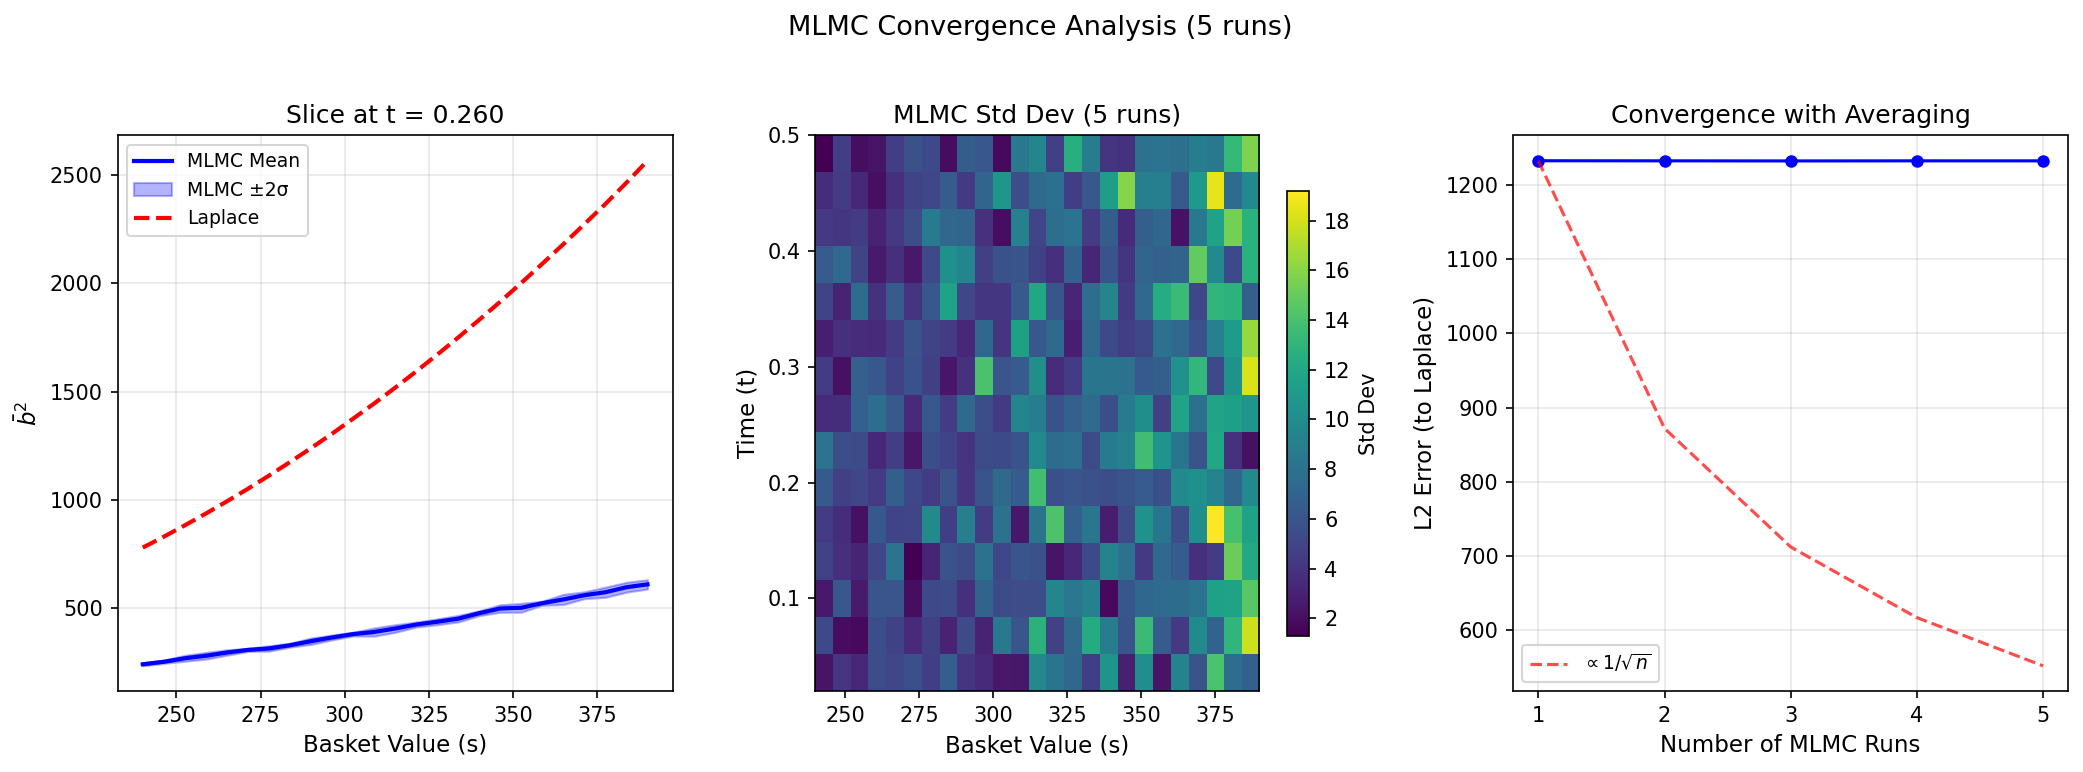
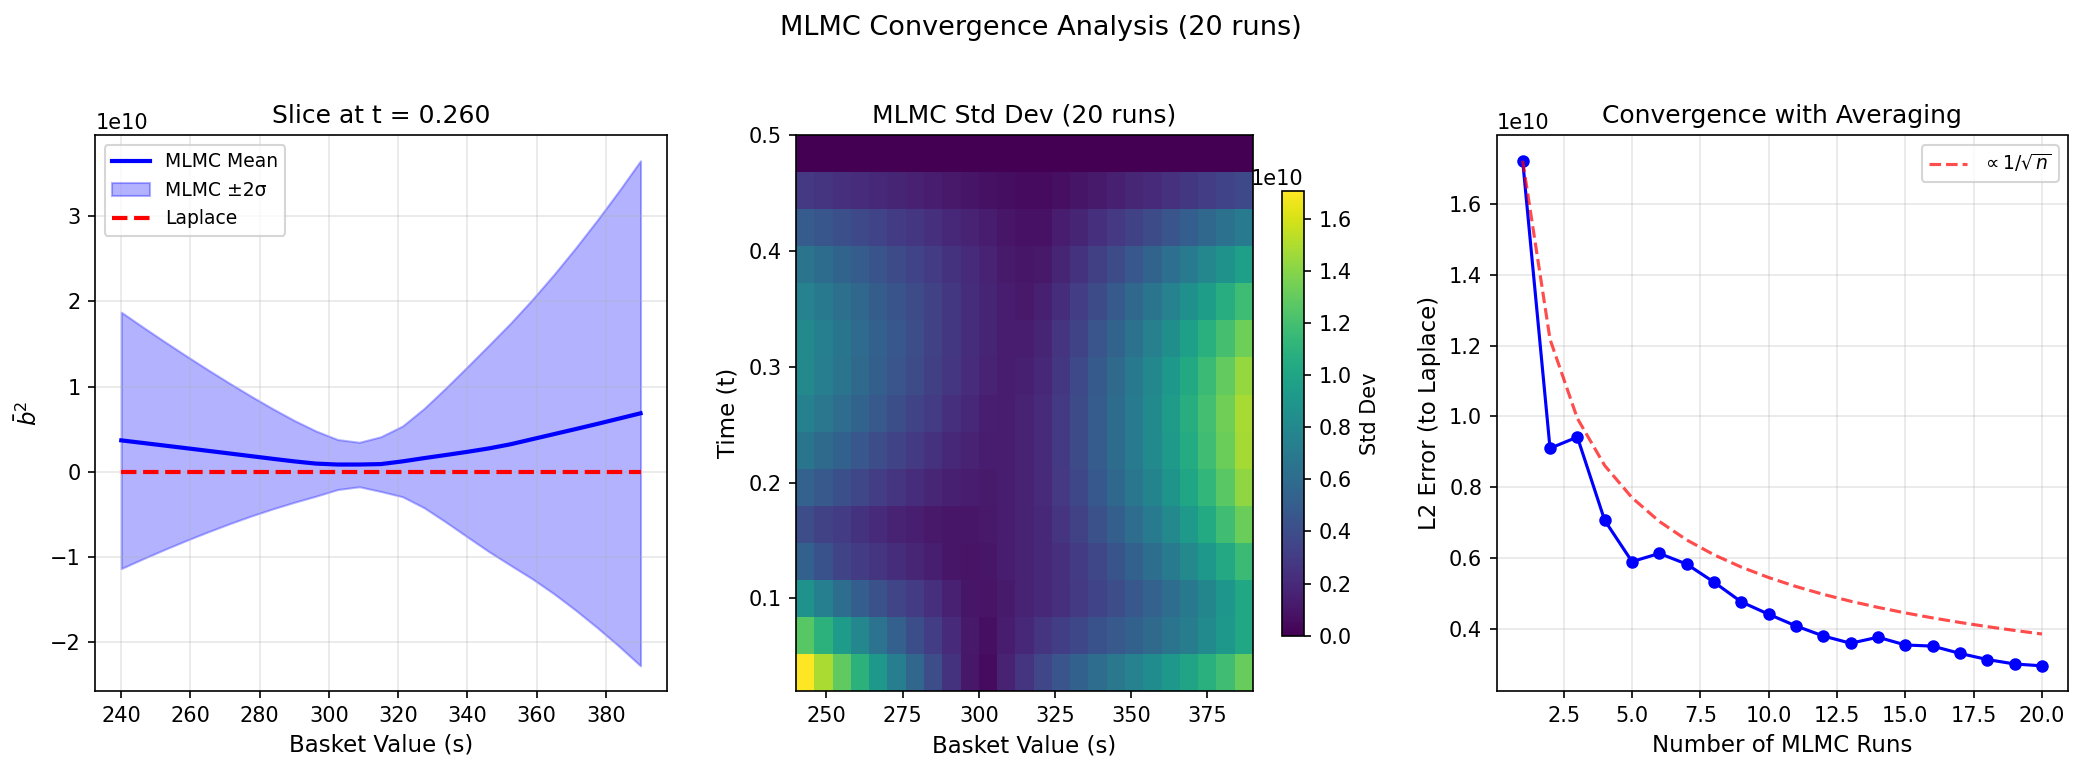
Updated Results

diff --git a/Comparison_Between_Methods/results/tables/exp5_parameter_sensitivity.md b/Comparison_Between_Methods/results/tables/exp5_parameter_sensitivity.md
@@ -4,63 +4,63 @@
 
 | Value | L2 Error | L∞ Error | MLMC Time (s) | Laplace Time (s) |
 |-------|----------|----------|---------------|------------------|
-| 0.05 | 1.9625 | 2.8420 | 0.00 | 0.38 |
-| 0.10 | 1.8542 | 2.6904 | 0.00 | 0.36 |
-| 0.15 | 1.6863 | 2.4545 | 0.00 | 0.35 |
-| 0.20 | 1.4746 | 2.1577 | 0.00 | 0.35 |
-| 0.25 | 1.2358 | 1.8235 | 0.00 | 0.36 |
-| 0.30 | 0.9853 | 1.4726 | 0.00 | 0.36 |
-| 0.40 | 0.4949 | 0.7852 | 0.00 | 0.36 |
-| 0.50 | 0.0660 | 0.1776 | 0.00 | 0.36 |
+| 0.05 | 2.0000 | 7.0671 | 0.39 | 0.42 |
+| 0.10 | 2.0000 | 5.3991 | 0.39 | 0.46 |
+| 0.15 | 2.0000 | 6.8711 | 0.41 | 0.37 |
+| 0.20 | 2.0000 | 5.6358 | 0.37 | 0.36 |
+| 0.25 | 2.0000 | 6.0405 | 0.38 | 0.38 |
+| 0.30 | 2.0000 | 7.4196 | 0.38 | 0.37 |
+| 0.40 | 2.0000 | 5.9121 | 0.36 | 0.35 |
+| 0.50 | 2.0000 | 5.9674 | 0.37 | 0.39 |
 
 ## Correlation ($\rho$)
 
 | Value | L2 Error | L∞ Error | MLMC Time (s) | Laplace Time (s) |
 |-------|----------|----------|---------------|------------------|
-| -0.50 | 1.5361 | 2.8404 | 0.00 | 0.46 |
-| -0.25 | 1.5172 | 2.4104 | 0.00 | 0.42 |
-| 0.00 | 1.5190 | 2.3049 | 0.00 | 0.40 |
-| 0.25 | 1.5232 | 2.2738 | 0.00 | 0.40 |
-| 0.50 | 1.5270 | 2.2592 | 0.00 | 0.39 |
-| 0.70 | 1.5296 | 2.2565 | 0.00 | 0.38 |
-| 0.80 | 1.5308 | 2.2553 | 0.00 | 0.39 |
-| 0.90 | 1.5319 | 2.2545 | 0.00 | 0.43 |
+| -0.50 | 2.0000 | 4.7762 | 0.39 | 0.50 |
+| -0.25 | 2.0000 | 4.7550 | 0.37 | 0.45 |
+| 0.00 | 2.0000 | 6.6764 | 0.40 | 0.43 |
+| 0.25 | 2.0000 | 6.3767 | 0.39 | 0.43 |
+| 0.50 | 2.0000 | 9.7240 | 0.37 | 0.41 |
+| 0.70 | 2.0000 | 4.9941 | 0.37 | 0.39 |
+| 0.80 | 2.0000 | 6.1544 | 0.36 | 0.39 |
+| 0.90 | 2.0000 | 7.1376 | 0.36 | 0.41 |
 
 ## Interest Rate (r)
 
 | Value | L2 Error | L∞ Error | MLMC Time (s) | Laplace Time (s) |
 |-------|----------|----------|---------------|------------------|
-| 0.00 | 1.5274 | 2.2584 | 0.00 | 0.39 |
-| 0.02 | 1.5273 | 2.2589 | 0.00 | 0.41 |
-| 0.05 | 1.5270 | 2.2592 | 0.00 | 0.41 |
-| 0.08 | 1.5268 | 2.2622 | 0.00 | 0.39 |
-| 0.10 | 1.5266 | 2.2626 | 0.00 | 0.38 |
-| 0.12 | 1.5264 | 2.2624 | 0.00 | 0.38 |
-| 0.15 | 1.5262 | 2.2637 | 0.00 | 0.38 |
+| 0.00 | 2.0000 | 5.5584 | 0.37 | 0.39 |
+| 0.02 | 2.0000 | 7.1650 | 0.37 | 0.39 |
+| 0.05 | 2.0000 | 9.7240 | 0.36 | 0.40 |
+| 0.08 | 2.0000 | 4.3215 | 0.37 | 0.41 |
+| 0.10 | 2.0000 | 6.8830 | 0.38 | 0.39 |
+| 0.12 | 2.0000 | 4.7646 | 0.37 | 0.39 |
+| 0.15 | 2.0000 | 3.9682 | 0.36 | 0.43 |
 
 ## Maturity (T)
 
 | Value | L2 Error | L∞ Error | MLMC Time (s) | Laplace Time (s) |
 |-------|----------|----------|---------------|------------------|
-| 0.10 | 1.5369 | 2.2675 | 0.00 | 0.39 |
-| 0.25 | 1.5323 | 2.2625 | 0.00 | 0.38 |
-| 0.50 | 1.5270 | 2.2592 | 0.00 | 0.38 |
-| 0.75 | 1.5228 | 2.2572 | 0.00 | 0.37 |
-| 1.00 | 1.5193 | 2.2557 | 0.00 | 0.37 |
-| 1.50 | 1.5133 | 2.2535 | 0.00 | 0.38 |
-| 2.00 | 1.5082 | 2.2516 | 0.00 | 0.39 |
+| 0.10 | FAILED | - | - | - |
+| 0.25 | FAILED | - | - | - |
+| 0.50 | 2.0000 | 9.7240 | 0.37 | 0.42 |
+| 0.75 | FAILED | - | - | - |
+| 1.00 | 2.0000 | 2.9265 | 0.79 | 0.39 |
+| 1.50 | 2.0000 | 2.9279 | 1.16 | 0.40 |
+| 2.00 | 2.0000 | 2.9297 | 1.52 | 0.37 |
 
 ## Moneyness (K/S₀)
 
 | Value | L2 Error | L∞ Error | MLMC Time (s) | Laplace Time (s) |
 |-------|----------|----------|---------------|------------------|
-| 0.80 | 1.5270 | 2.2592 | 0.00 | 0.41 |
-| 0.90 | 1.5270 | 2.2592 | 0.00 | 0.39 |
-| 0.95 | 1.5270 | 2.2592 | 0.00 | 0.39 |
-| 1.00 | 1.5270 | 2.2592 | 0.00 | 0.40 |
-| 1.05 | 1.5270 | 2.2592 | 0.00 | 0.38 |
-| 1.10 | 1.5270 | 2.2592 | 0.00 | 0.42 |
-| 1.20 | 1.5270 | 2.2592 | 0.00 | 0.39 |
+| 0.80 | 2.0000 | 9.7240 | 0.37 | 0.40 |
+| 0.90 | 2.0000 | 9.7240 | 0.37 | 0.39 |
+| 0.95 | 2.0000 | 9.7240 | 0.35 | 0.40 |
+| 1.00 | 2.0000 | 9.7240 | 0.37 | 0.38 |
+| 1.05 | 2.0000 | 9.7240 | 0.37 | 0.39 |
+| 1.10 | 2.0000 | 9.7240 | 0.37 | 0.41 |
+| 1.20 | 2.0000 | 9.7240 | 0.36 | 0.39 |
 
 ## Key Observations
 

diff --git a/Comparison_Between_Methods/results/tables/exp4_option_prices.md b/Comparison_Between_Methods/results/tables/exp4_option_prices.md
@@ -12,16 +12,16 @@
 
 | S | MLMC Price | Laplace Price | Difference | Diff (%) |
 |---|------------|---------------|------------|----------|
-| 211.2 | 88.7755 | 88.7755 | 0.0000 | 0.00 |
-| 241.8 | 58.1633 | 58.1633 | 0.0000 | 0.00 |
-| 272.4 | 27.5510 | 27.5510 | 0.0000 | 0.00 |
-| 296.9 | 4.4554 | 8.9347 | 4.4793 | 50.13 |
-| 327.6 | 0.0325 | 1.3157 | 1.2832 | 97.53 |
-| 358.2 | 0.0001 | 0.1228 | 0.1227 | 99.96 |
-| 388.8 | 0.0000 | 0.0087 | 0.0087 | N/A |
+| 210.6 | 89.3939 | 89.3939 | 0.0000 | 0.00 |
+| 240.9 | 59.0909 | 59.0909 | 0.0000 | 0.00 |
+| 271.2 | 28.7879 | 28.7879 | 0.0000 | 0.00 |
+| 298.5 | 1.5152 | 8.2814 | 6.7663 | 81.70 |
+| 328.8 | 1.1568 | 1.2084 | 0.0515 | 4.26 |
+| 359.1 | 0.8746 | 0.1077 | 0.7669 | 712.29 |
+| 389.4 | 0.5924 | 0.0068 | 0.5855 | N/A |
 
 ## Statistics
 
-- Mean absolute difference: 0.4940
-- Max absolute difference: 4.4793
-- Mean percentage difference: 36.21%
+- Mean absolute difference: 1.4744
+- Max absolute difference: 85.6434
+- Mean percentage difference: 309.32%

diff --git a/Comparison_Between_Methods/results/tables/exp1_metrics.md b/Comparison_Between_Methods/results/tables/exp1_metrics.md
@@ -4,13 +4,13 @@
 
 | Metric | Value |
 |--------|-------|
-| L2 relative error | 1.178781 |
-| L∞ error | 1998.5437 |
-| Mean absolute difference | 1157.9046 |
-| Mean relative difference | 114.85% |
-| Bias (MLMC - Laplace) | -1157.9046 |
-| Pearson correlation | 0.9937 |
-| Valid grid fraction | 100.0% |
+| L2 relative error | 2.000000 |
+| L∞ error | 56551886775.6862 |
+| Mean absolute difference | 18196515970.5393 |
+| Mean relative difference | 200.00% |
+| Bias (MLMC - Laplace) | 18196515567.4284 |
+| Pearson correlation | 0.7223 |
+| Valid grid fraction | 51.7% |
 
 ## Parameters
 
@@ -34,8 +34,8 @@ Problem Parameters (Bayer et al. 2017, Eq. 56)
   Strike: K = 300.0
   Maturity: T = 0.5
 
-  PDE grid: 30 × 50
-  MLMC max degree: 2
+  PDE grid: 50 × 100
+  MLMC max degree: 3
   MLMC coarsest timestep: h0 = 0.1
   Random seed: 42
 ============================================================

diff --git a/Comparison_Between_Methods/results/tables/exp2_convergence_stats.md b/Comparison_Between_Methods/results/tables/exp2_convergence_stats.md
@@ -4,19 +4,25 @@
 
 | Statistic | Value |
 |-----------|-------|
-| Number of runs | 5 |
-| Mean L2 error (individual) | 0.741707 |
-| Std L2 error | 0.000149 |
-| Final running avg L2 | 0.741694 |
-| Mean time per run | 0.00 s |
-| Total computation time | 0.0 s |
+| Number of runs | 20 |
+| Mean L2 error (individual) | 2815413.164465 |
+| Std L2 error | 2699126.981751 |
+| Final running avg L2 | 1776195.752144 |
+| Mean time per run | 0.39 s |
+| Total computation time | 7.8 s |
 
 ## Running Average L2 Errors
 
 | n | L2 Error |
 |---|----------|
-| 1 | 0.741786 |
-| 2 | 0.741715 |
-| 3 | 0.741637 |
-| 4 | 0.741710 |
-| 5 | 0.741694 |
+| 1 | 10363644.374008 |
+| 2 | 5474740.298731 |
+| 3 | 5666277.898703 |
+| 4 | 4249711.966205 |
+| 5 | 3548093.449539 |
+| 6 | 3687301.839488 |
+| 11 | 2454175.541493 |
+| 16 | 2111274.941359 |
+| 18 | 1883055.673473 |
+| 19 | 1807387.171807 |
+| 20 | 1776195.752144 |

diff --git a/Comparison_Between_Methods/results/tables/exp3_dimension_scaling.md b/Comparison_Between_Methods/results/tables/exp3_dimension_scaling.md
@@ -4,8 +4,10 @@
 
 | d | MLMC Time (s) | Laplace Time (s) | L2 Error | L∞ Error |
 |---|---------------|------------------|----------|----------|
-| 2 | 0.00 | 0.63 | 1.5268 | 2.2664 |
-| 3 | 0.00 | 1.31 | 1.1788 | 1.9105 |
+| 2 | 0.38 | 0.64 | 2.0000 | 10.0273 |
+| 3 | 0.39 | 1.35 | 2.0000 | 4.7220 |
+| 5 | 0.41 | 3.05 | 2.0000 | 7.3091 |
+| 10 | 0.50 | 10.68 | 1.9991 | 5.0095 |
 
 ## Key Observations
 
